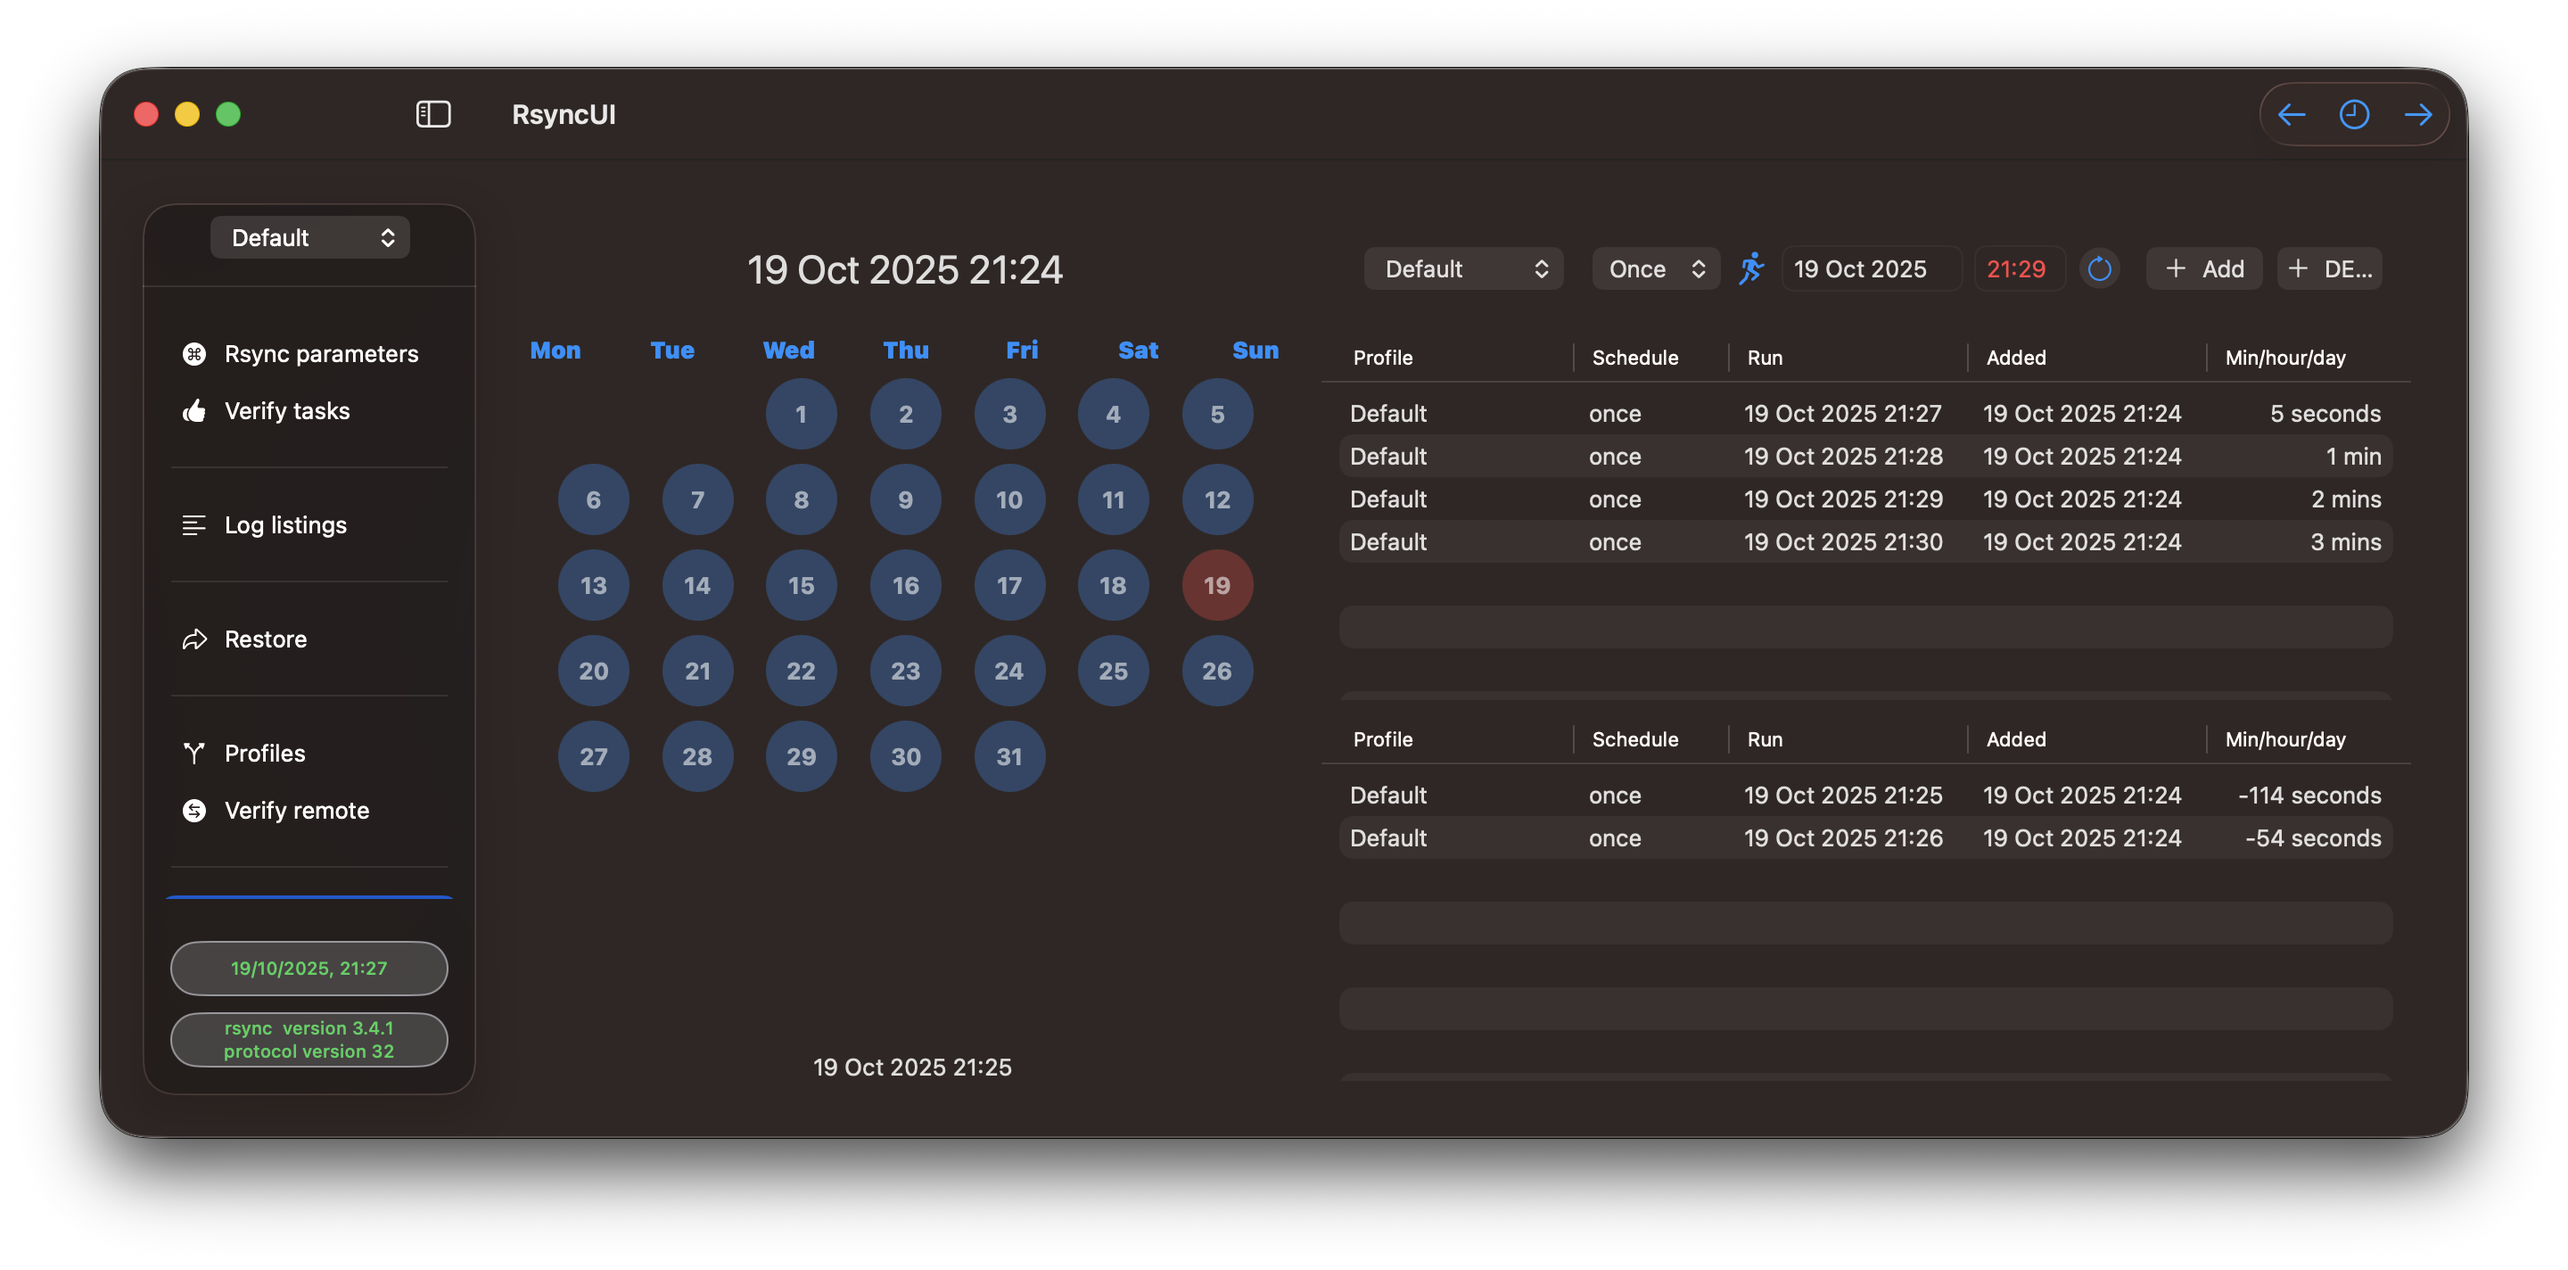
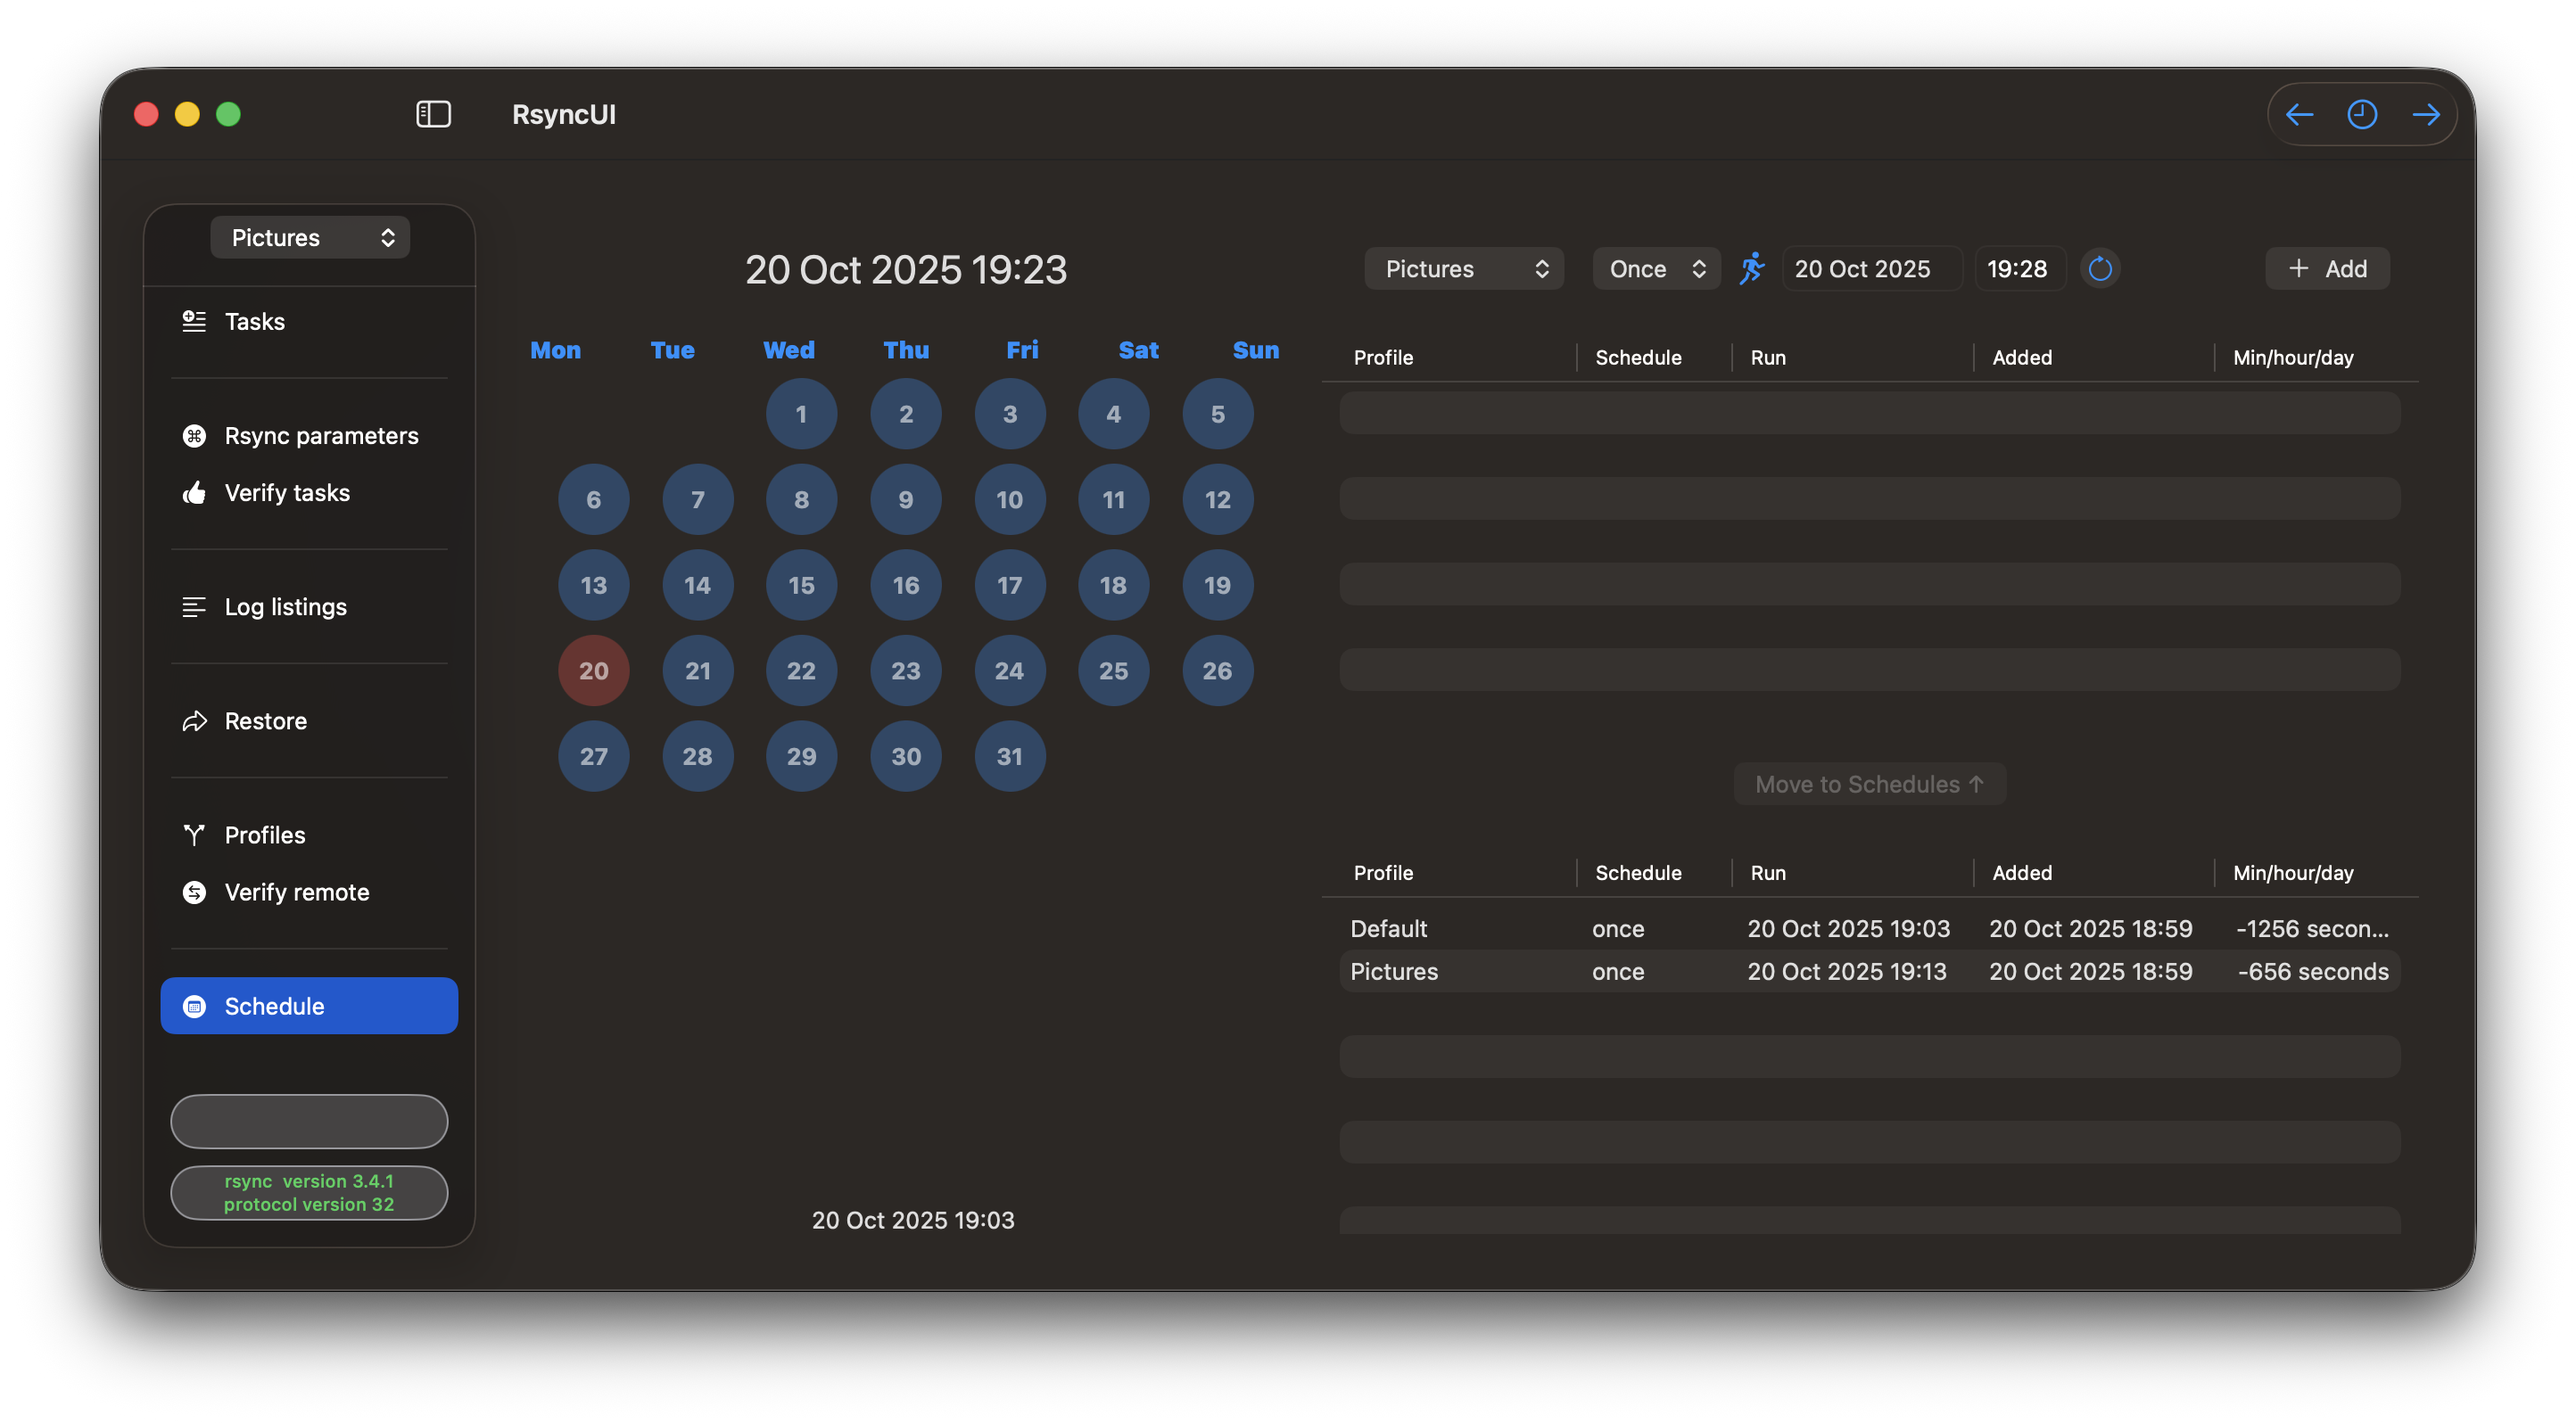
update

diff --git a/content/en/blog/Version274.md b/content/en/blog/Version274.md
@@ -30,9 +30,13 @@ Several demonstration schedules are scheduled, with a one-minute interval betwee
 
 {{< figure src="/images/v274/before.png" alt="" position="center" style="border-radius: 8px;" >}}
 
-After approximately two minutes, the Mac reawakens. Schedules that have not been executed are automatically transferred to a new table. Not yet decide how to handle not executed schedules.
+Approximately 20 minutes after the Mac reawakens, any scheduled tasks that have not been executed are automatically transferred to a new table. Additionally, any pending tasks that were not executed upon awakening may be moved to the top of the queue for execution.
 
 {{< figure src="/images/v274/after.png" alt="" position="center" style="border-radius: 8px;" >}}
+
+Moved *not executed* tasks after awake to be executed.
+
+{{< figure src="/images/v274/move.png" alt="" position="center" style="border-radius: 8px;" >}}
 
 #### October 12, 2025
 
